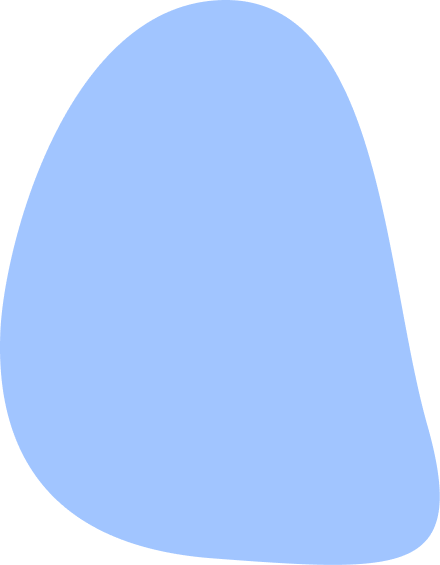
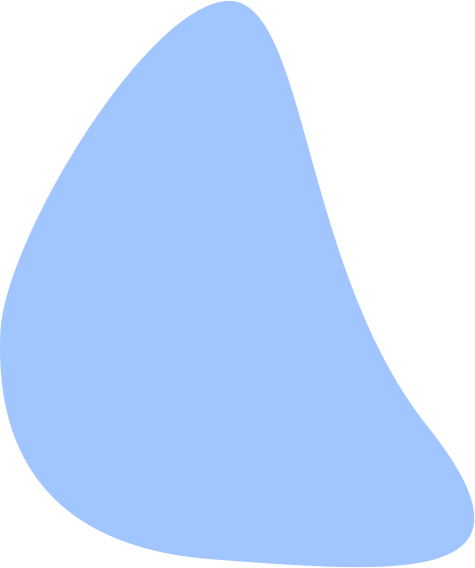
adjust animation speed and layer

diff --git a/index.html b/index.html
@@ -10,7 +10,7 @@
             --min-scale: 0.6;
             --max-scale: 1.0;
             --initial-scale: 0.6;
-            --layer1-scale: 1.4;
+            --layer1-scale: 1.2;
             --animation-scale-min: 0.8;
             --animation-scale-max: 1.0;
         }
@@ -59,13 +59,13 @@
             transform: scale(var(--layer1-scale));
         }
         .layer-wrapper:nth-child(2) img {
-            animation: rotate 3s infinite linear;
+            animation: rotate 4s infinite linear;
         }
         .layer-wrapper:nth-child(3) img {
-            animation: rotate 3s infinite linear reverse;
+            animation: rotate 4s infinite linear reverse;
         }
         .layer-wrapper:nth-child(4) img {
-            animation: rotate 4s infinite linear;
+            animation: rotate 5s infinite linear;
         }
         .layer-wrapper:nth-child(5) img {
             animation: rotate 6s infinite linear;
